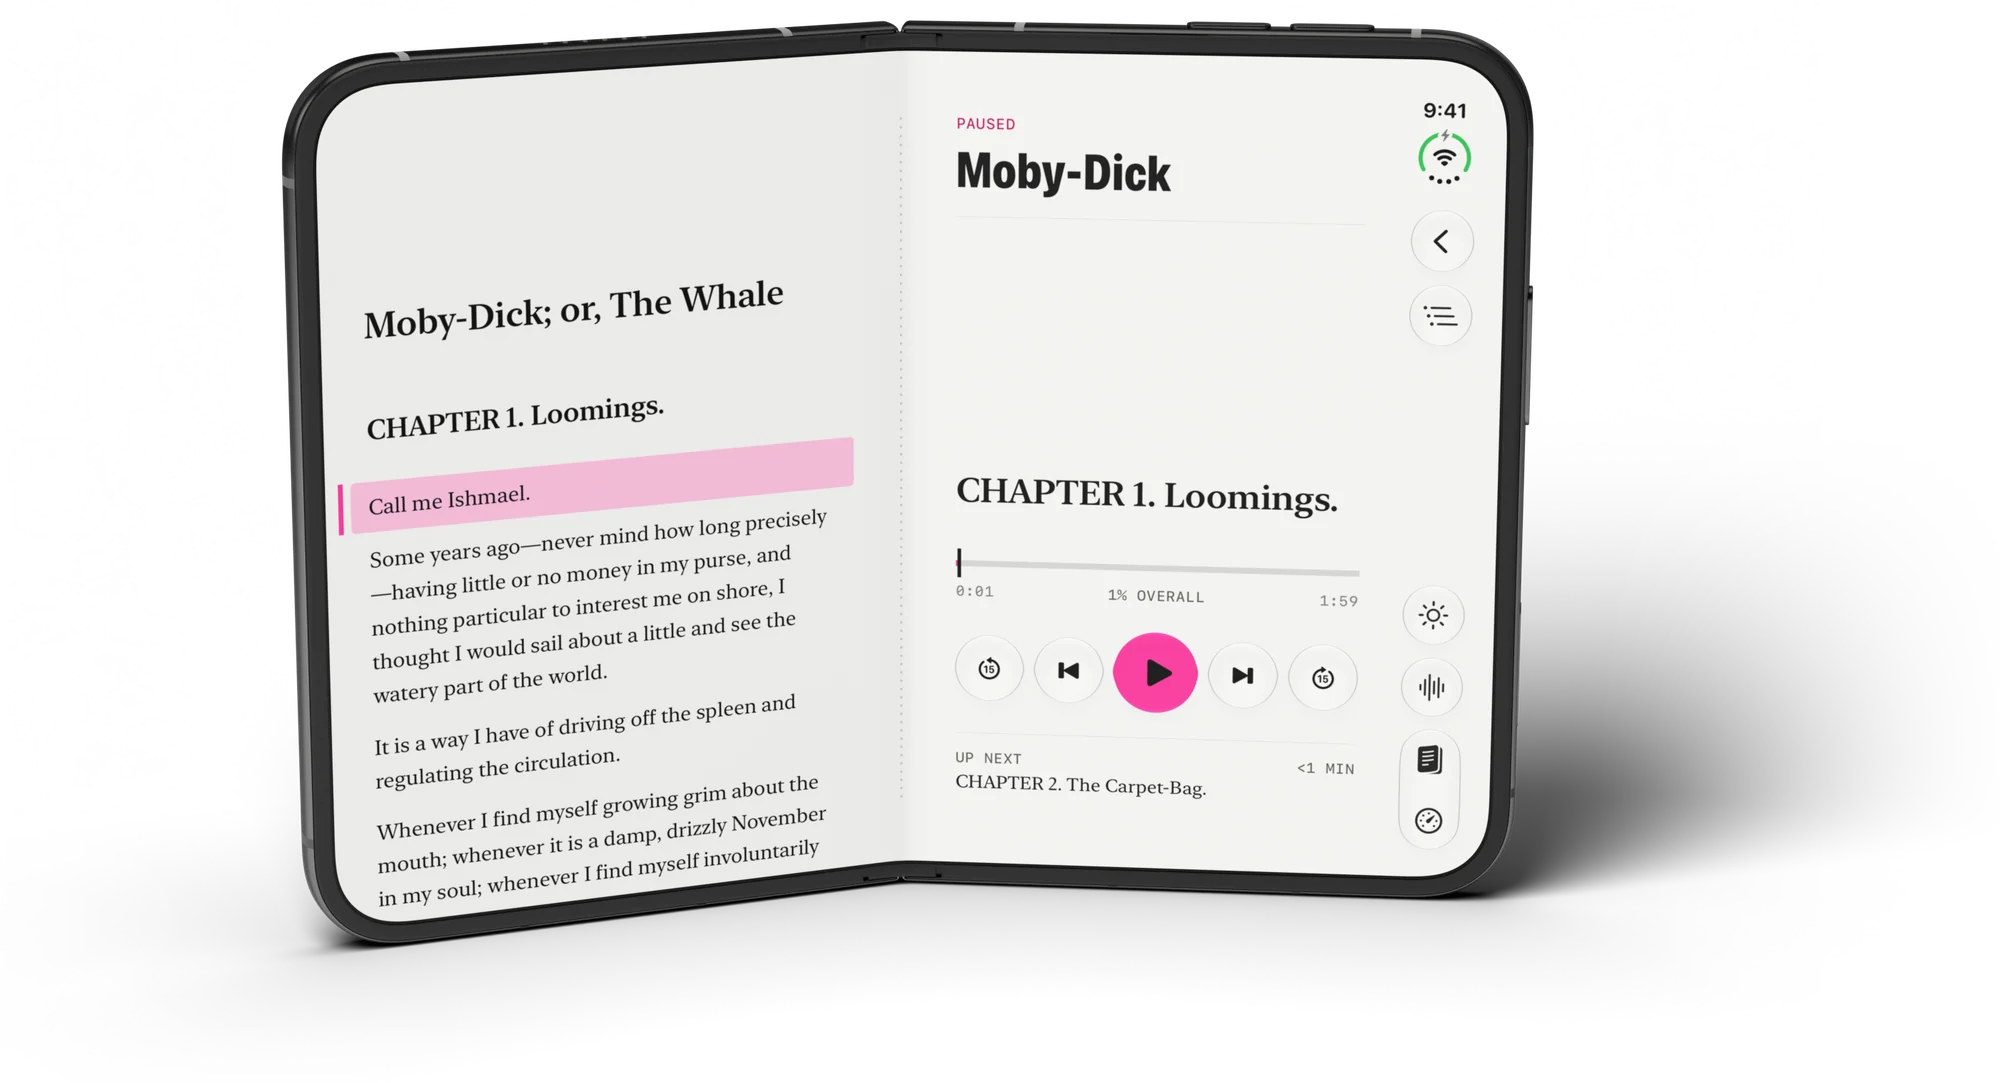
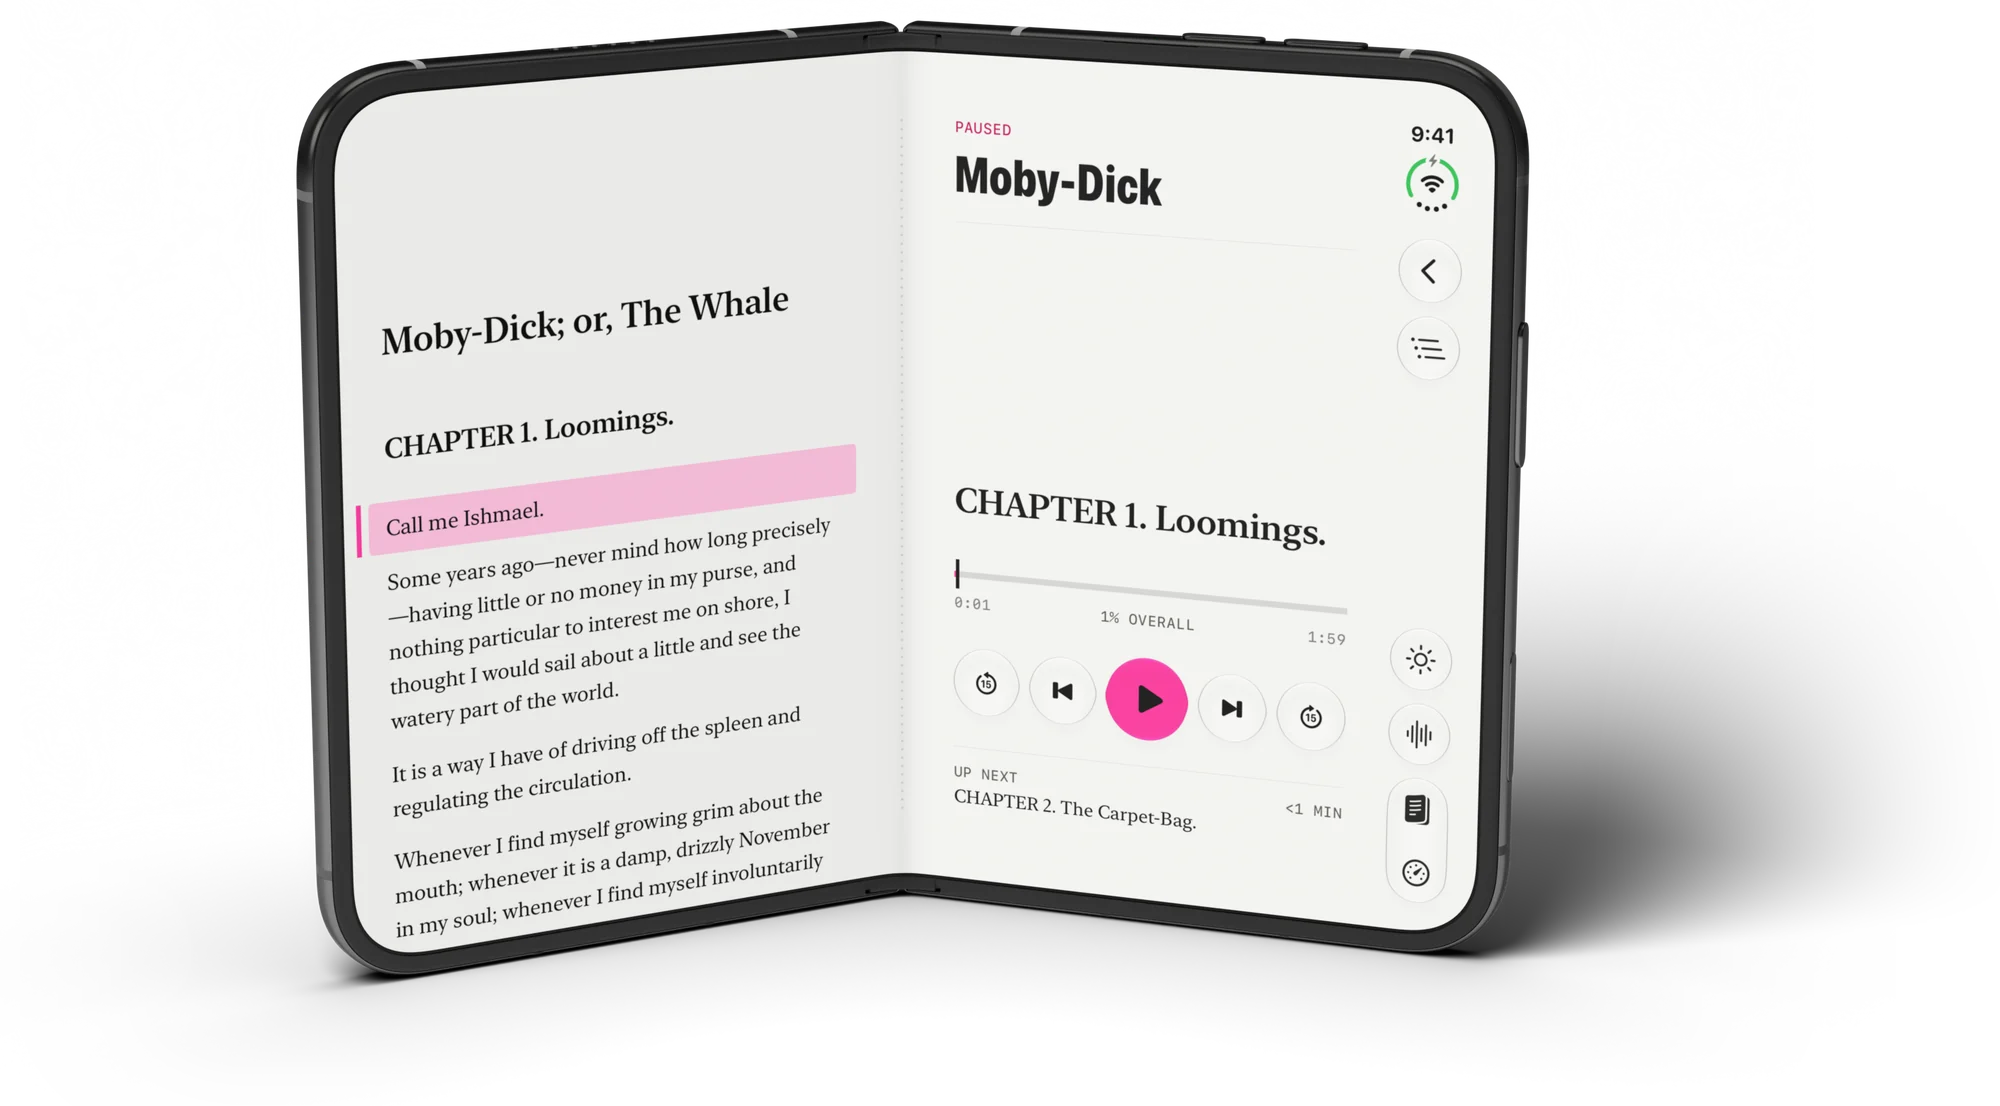
Homepage catalog: Prismark section Duo posed at 130°
At 152° the app draws its spine shading at a quarter strength, so the fold
barely read. Posed and captured at 130°, the device reads as an open book.

diff --git a/index.html b/index.html
@@ -74,7 +74,7 @@
     <p class="links"><a href="https://testflight.apple.com/join/zeH4fhQ3">Join the beta on TestFlight</a></p>
   </div>
   <figure class="plate plate-duo">
-    <img src="/assets/catalog/duo-fold-1100.webp?v=3" srcset="/assets/catalog/duo-fold-1100.webp?v=3 1100w, /assets/catalog/duo-fold-2000.webp?v=3 2000w" sizes="(min-width: 900px) 60vw, 100vw" width="2000" height="1083" alt="Prismark on a partly folded iPhone Duo: Moby-Dick on the left page with the spoken sentence highlighted, the player on the right." loading="lazy" decoding="async">
+    <img src="/assets/catalog/duo-fold-1100.webp?v=4" srcset="/assets/catalog/duo-fold-1100.webp?v=4 1100w, /assets/catalog/duo-fold-2000.webp?v=4 2000w" sizes="(min-width: 900px) 60vw, 100vw" width="2000" height="1106" alt="Prismark on a partly folded iPhone Duo: Moby-Dick on the left page with the spoken sentence highlighted, the player on the right." loading="lazy" decoding="async">
   </figure>
 </article>
 
